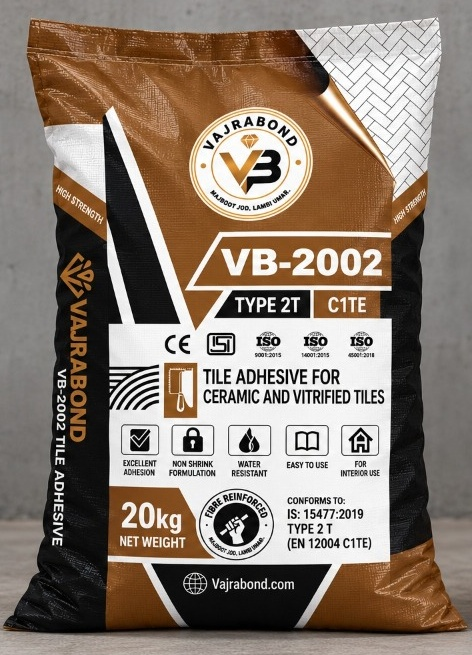
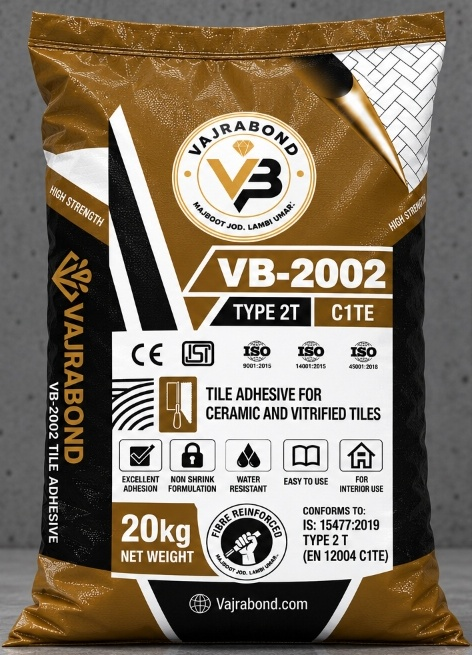
changed photo

diff --git a/src/app/HomeClient.tsx b/src/app/HomeClient.tsx
@@ -247,7 +247,7 @@ export default function HomeClient() {
             <Link href="/products/vb-2002-ceramic-vitrified-tile-adhesive" className="w-full flex justify-center">
               <div className="relative w-full max-w-[208px] aspect-[3/4] rounded-2xl overflow-hidden bg-stone-100/80 border border-stone-200/80 shadow-md group-hover:shadow-2xl group-hover:border-[#c5832b]/50 group-hover:-translate-y-1.5 transition-all duration-300">
                 <Image
-                  src="/images/products/vb-2002-front.jpg"
+                  src="/images/products/vb-2002-front-new.jpg"
                   alt="Tile Adhesive for Ceramic and Vitrified Tiles"
                   fill
                   sizes="(max-width: 640px) 50vw, (max-width: 1024px) 50vw, 25vw"

diff --git a/src/data/products.ts b/src/data/products.ts
@@ -122,7 +122,7 @@ export const products: Product[] = [
     standardType: 'IS: 15477:2019 TYPE 2 T',
     enCode: 'EN 12004 C1TE',
     packSize: '20 kg',
-    image: '/images/products/vb-2002-packaging.jpg',
+    image: '/images/products/vb-2002-new.jpg',
     badge: 'Type 2T C1TE',
     colorTone: '#b45309',
     description: 'Polymer blended, cement-based tile adhesive for fixing ceramic and vitrified tiles in indoor areas, on both vertical and horizontal surfaces.',
